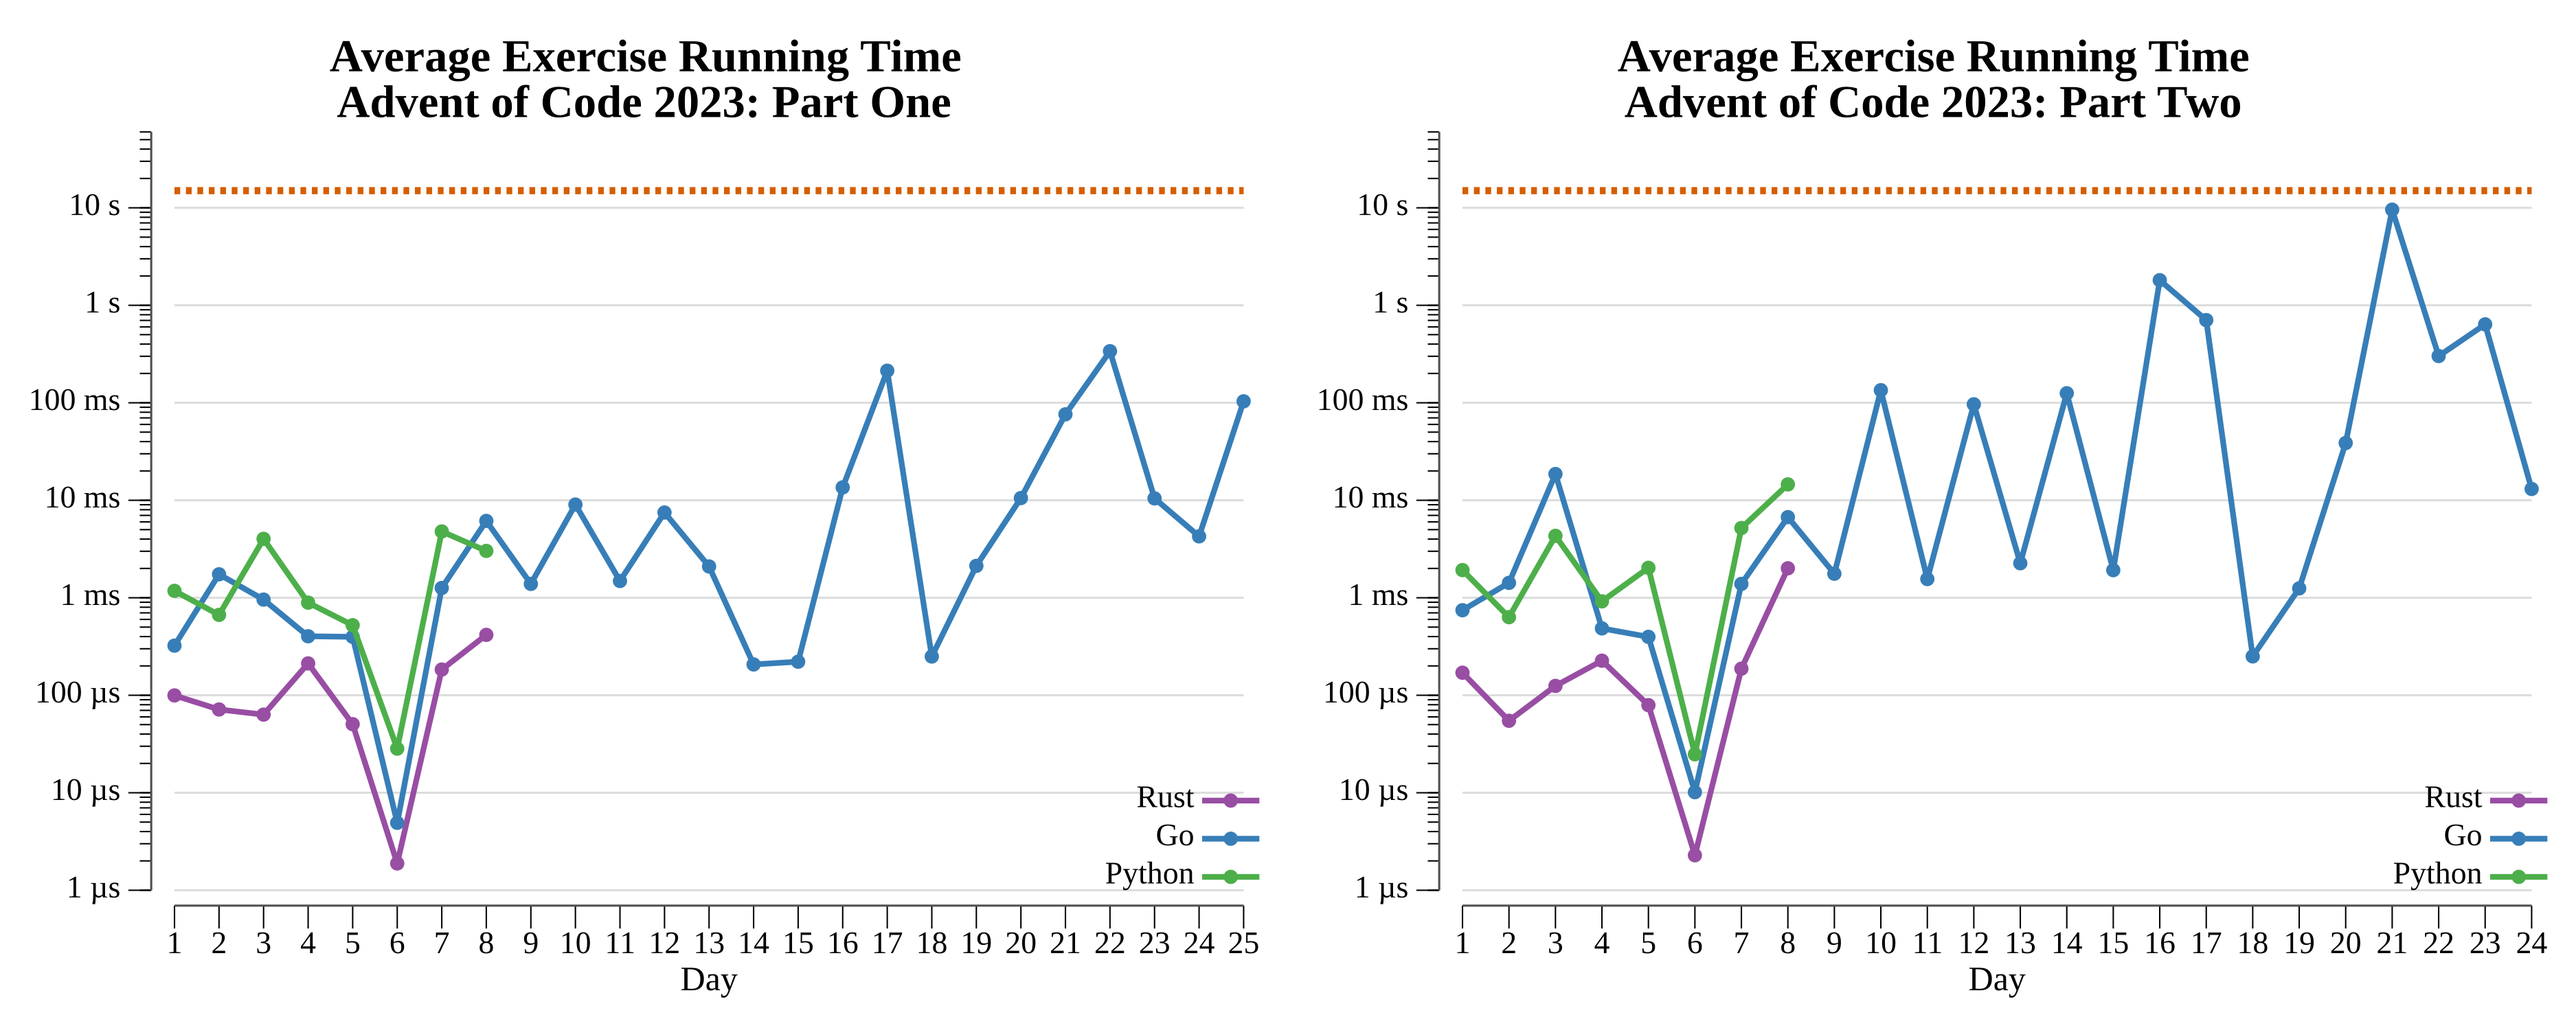
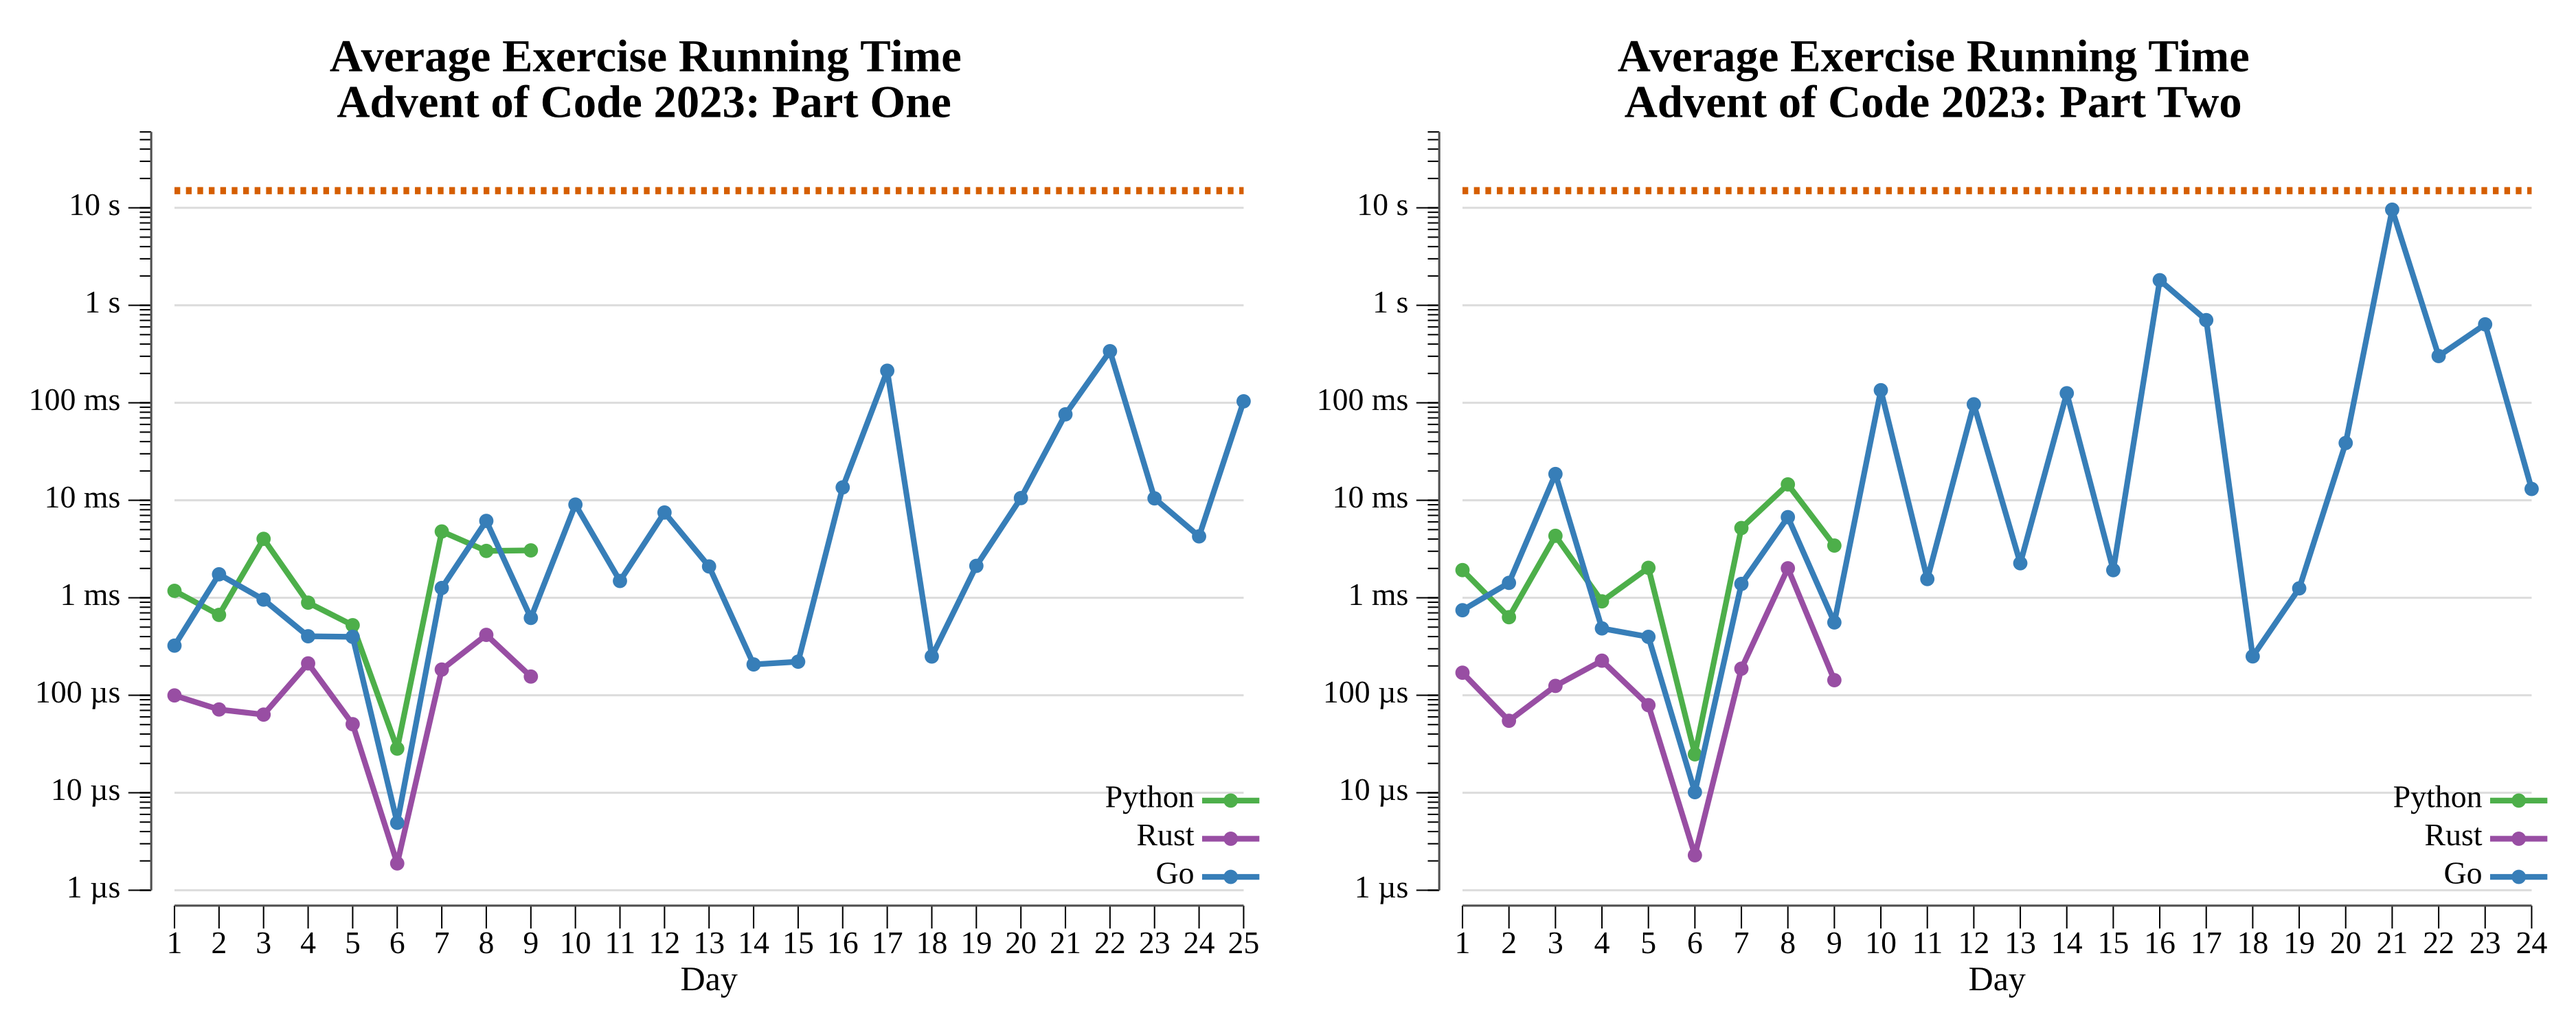
add rust/py to 2023 day 9

diff --git a/exercises/2023/09-mirageMaintenance/rs/src/solution.rs b/exercises/2023/09-mirageMaintenance/rs/src/solution.rs
@@ -1,0 +1,36 @@
+// Solution for Advent of Code 2023 day 9.
+//
+// Each history is extended by repeatedly taking differences until the row is all
+// zeros, then summing the last value of every row. Part two extends backwards,
+// which is the same computation on the reversed sequence. We recurse on the
+// difference row via `windows(2)`.
+
+fn extrapolate(seq: &[i64]) -> i64 {
+    if seq.iter().all(|&n| n == 0) {
+        return 0;
+    }
+    let diffs: Vec<i64> = seq.windows(2).map(|w| w[1] - w[0]).collect();
+    seq.last().unwrap() + extrapolate(&diffs)
+}
+
+fn solve(input: &str, reverse: bool) -> i64 {
+    input
+        .lines()
+        .map(|line| {
+            let mut seq: Vec<i64> =
+                line.split_whitespace().map(|n| n.parse().unwrap()).collect();
+            if reverse {
+                seq.reverse();
+            }
+            extrapolate(&seq)
+        })
+        .sum()
+}
+
+pub fn part_one(input: &str) -> String {
+    solve(input, false).to_string()
+}
+
+pub fn part_two(input: &str) -> String {
+    solve(input, true).to_string()
+}

diff --git a/exercises/2023/09-mirageMaintenance/py/__init__.py b/exercises/2023/09-mirageMaintenance/py/__init__.py
@@ -1,0 +1,30 @@
+from itertools import pairwise
+from typing import *
+from aocpy import BaseExercise
+
+
+def _extrapolate(seq: list[int]) -> int:
+    # The next value is this row's last plus the extrapolation of its difference
+    # row; a constant (all-zero difference) row contributes nothing.
+    if any(seq):
+        diffs = [b - a for a, b in pairwise(seq)]
+        return seq[-1] + _extrapolate(diffs)
+    return 0
+
+
+# Exercise for Advent of Code 2023 day 9.
+class Exercise(BaseExercise):
+    @staticmethod
+    def one(instr: str) -> int:
+        return sum(
+            _extrapolate([int(n) for n in line.split()])
+            for line in instr.splitlines()
+        )
+
+    @staticmethod
+    def two(instr: str) -> int:
+        # Extrapolating backwards is just extrapolating the reversed sequence.
+        return sum(
+            _extrapolate([int(n) for n in line.split()][::-1])
+            for line in instr.splitlines()
+        )

diff --git a/exercises/2023/09-mirageMaintenance/README.md b/exercises/2023/09-mirageMaintenance/README.md
@@ -27,8 +27,36 @@
 
 ## Python
 
+`_extrapolate` recurses on the `pairwise` difference row until it is all zeros,
+adding each row's last value. Part two reverses each history first, since
+extending backwards is the forward computation on the reversed sequence.
+
 ```text
-< section intentionally left blank >
+ ─────────────────────────
+ ADVENT OF CODE 2023
+ Day 9: Mirage Maintenance
+ ─────────────────────────
+
+Solving (Python)…
+1.0:  PASS             2.428ms
+2.0:  PASS             2.614ms
+```
+
+## Rust
+
+The same recursion over `windows(2)` differences, summing each row's last value.
+A shared `solve` takes a `reverse` flag so part two just flips each sequence
+before extrapolating.
+
+```text
+ ─────────────────────────
+ ADVENT OF CODE 2023
+ Day 9: Mirage Maintenance
+ ─────────────────────────
+
+Solving (Rust)…
+1.0:  PASS           156.550µs
+2.0:  PASS           146.543µs
 ```
 
 ## 2023 Run Times

diff --git a/exercises/2023/README.md b/exercises/2023/README.md
@@ -14,7 +14,7 @@
 | [Day 6: Wait For It][rm6]                     |  ⭐⭐   | [Go][go6] · [Rust][rs6] · [Python][py6] |
 | [Day 7: Camel Cards][rm7]                     |  ⭐⭐   | [Go][go7] · [Rust][rs7] · [Python][py7] |
 | [Day 8: Haunted Wasteland][rm8]               |  ⭐⭐   | [Go][go8] · [Rust][rs8] · [Python][py8] |
-| [Day 9: Mirage Maintenance][rm9]              |  ⭐⭐   | [Go][go9]  |
+| [Day 9: Mirage Maintenance][rm9]              |  ⭐⭐   | [Go][go9] · [Rust][rs9] · [Python][py9] |
 | [Day 10: Pipe Maze][rm10]                     |  ⭐⭐   | [Go][go10] |
 | [Day 11: Cosmic Expansion][rm11]              |  ⭐⭐   | [Go][go11] |
 | [Day 12: Hot Springs][rm12]                   |  ⭐⭐   | [Go][go12] |
@@ -104,6 +104,8 @@ Day       Time   Rank  Score       Time   Rank  Score
 [py8]: 08-hauntedWasteland/py
 [rm9]: 09-mirageMaintenance/README.md
 [go9]: 09-mirageMaintenance/go
+[rs9]: 09-mirageMaintenance/rs
+[py9]: 09-mirageMaintenance/py
 [rm10]: 10-pipeMaze/README.md
 [go10]: 10-pipeMaze/go
 [rm11]: 11-cosmicExpansion/README.md
